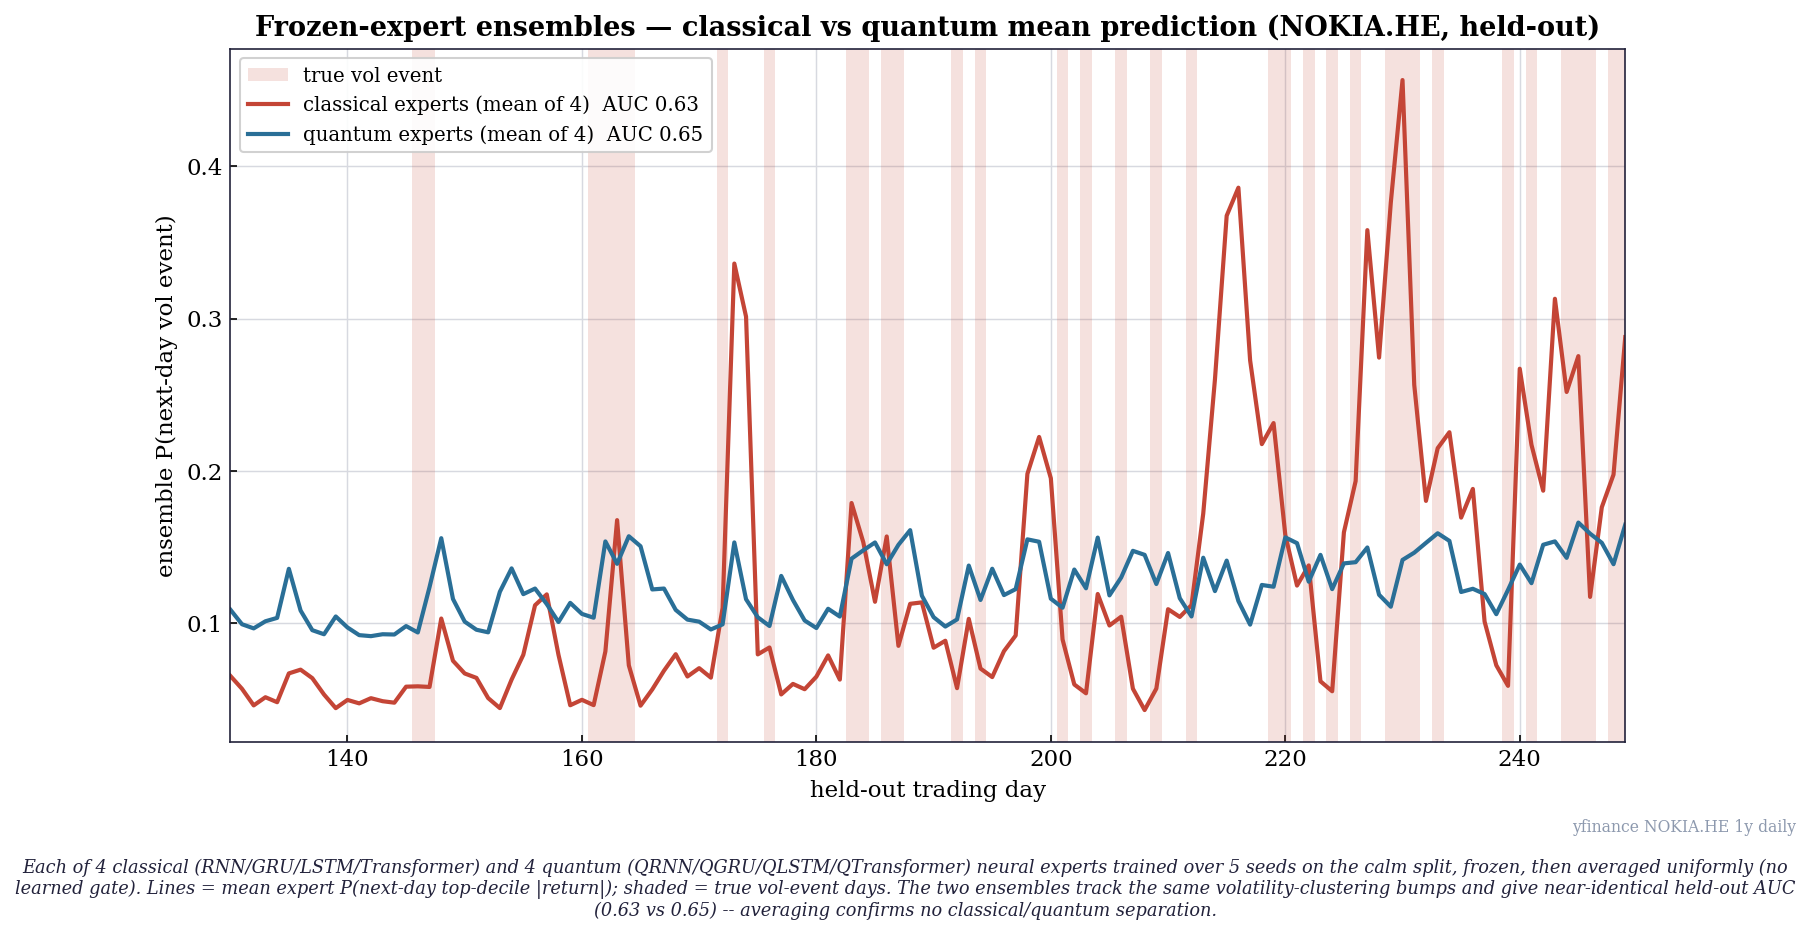
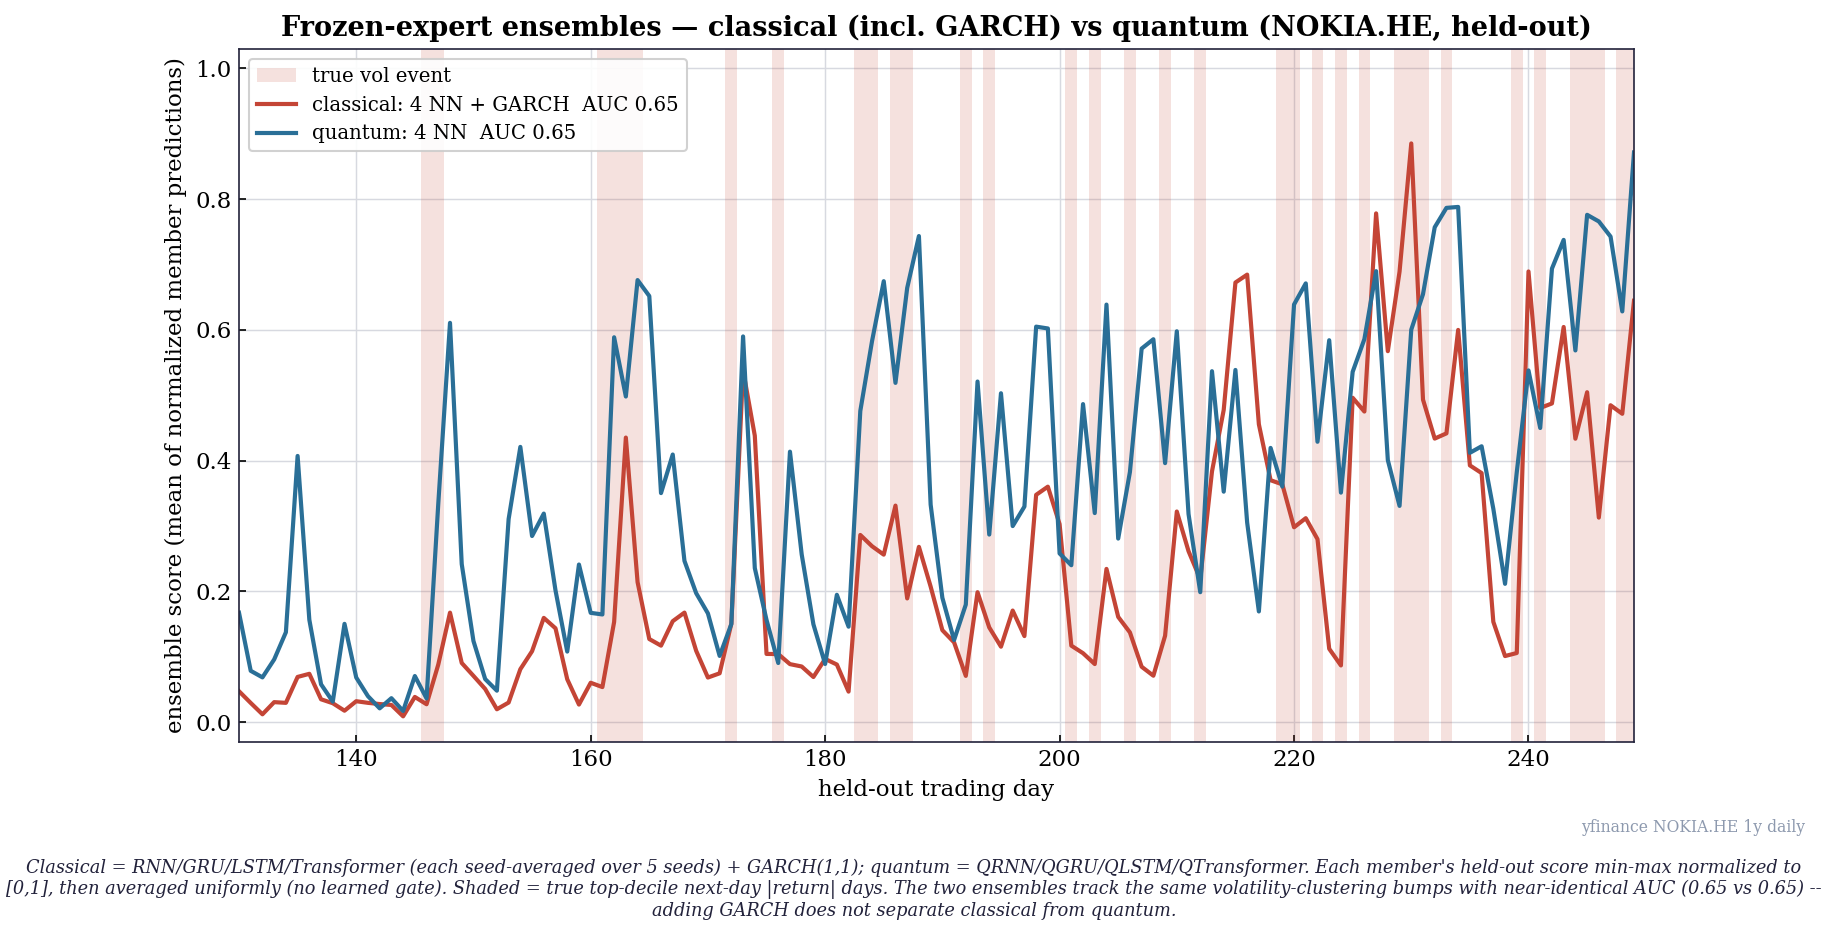
experiment(viz): fold GARCH(1,1) into the classical ensemble
Classical ensemble now = 4 NN (RNN/GRU/LSTM/Transformer, seed-averaged) + GARCH(1,1);
quantum = 4 NN. Each member min-max normalized before uniform averaging so the
GARCH variance forecast mixes fairly with the neural sigmoids.

Held-out AUC: classical 0.651 vs quantum 0.655 -- a dead heat. Adding GARCH (the
strongest single classical member, 0.639) lifts the classical ensemble from 0.63 to
match quantum, erasing the small prior gap. Still no classical/quantum separation.

Changed region(s): [[0.0928, 0.0, 0.8967, 0.8374], [0.0, 0.8684, 0.9895, 0.9925], [0.4329, 0.8064, 0.5875, 0.8684]]

diff --git a/experiments/quantum_rnn/ensemble_plot.py b/experiments/quantum_rnn/ensemble_plot.py
@@ -1,14 +1,15 @@
 """Frozen-expert ensembles: classical vs quantum, two averaged prediction lines.
 
-Mixture-of-experts / frozen-model style: each neural model is trained
+Mixture-of-experts / frozen-model style: each member is trained (or fit)
 independently then frozen; the ensemble prediction is the uniform mean of its
-experts' per-day probabilities (no learned gate). We average the four CLASSICAL
-neural experts (RNN, GRU, LSTM, Transformer) into one line and the four QUANTUM
-neural experts (QRNN, QGRU, QLSTM, QTransformer) into another, and overlay both
-against the true next-day vol-event days on the held-out split.
+members' per-day scores (no learned gate). To mix members with different output
+scales (neural sigmoids in [0,1] and GARCH's variance forecast), every member's
+held-out score is min-max normalized to [0,1] before averaging.
 
-(Statistical baselines -- GARCH/AR/persistence/logistic -- are intentionally
-excluded: they are not neural "experts". Swap them in if you want them counted.)
+  CLASSICAL line = RNN, GRU, LSTM, Transformer  +  GARCH(1,1)
+  QUANTUM line   = QRNN, QGRU, QLSTM, QTransformer
+
+Both overlaid against the true next-day vol-event days on the held-out split.
 
 Run:  ./quantum_pricer/.venv/bin/python experiments/quantum_rnn/ensemble_plot.py
 Saves ensemble_predictions.png next to this script.
@@ -28,6 +29,7 @@ sys.path.insert(0, HERE)
 sys.path.insert(0, os.path.abspath(os.path.join(HERE, "..", "..")))
 import seqdata as sd
 import classical_rnn as cr
+import ar_baseline as ar
 from quantum_rnn import QRNN
 from quantum_gru import QGRU
 from quantum_lstm import QLSTM
@@ -43,7 +45,7 @@ L = 10
 EPOCHS = 150
 LR = 0.05
 WD = 1e-2
-SEEDS = range(5)          # each expert seed-averaged (deep ensemble) for honest, stable lines
+SEEDS = range(5)          # each neural expert seed-averaged (deep ensemble) for stable lines
 OUT = os.path.join(HERE, "ensemble_predictions.png")
 
 CLASSICAL = [("RNN", cr.RNNClassifier), ("GRU", cr.GRUClassifier),
@@ -52,21 +54,31 @@ QUANTUM = [("QRNN", QRNN), ("QGRU", QGRU), ("QLSTM", QLSTM),
            ("QTransformer", QuantumTransformer)]
 
 
-def _expert_probs(models, X, y, tr, te):
-    """Each expert = its held-out prob averaged over SEEDS (a deep ensemble, robust to
-    init). Returns (mean held-out prob over the experts, per-expert seed-averaged AUCs)."""
-    probs, aucs = [], {}
+def nrm(x):
+    x = np.asarray(x, float)
+    lo, hi = np.nanmin(x), np.nanmax(x)
+    return (x - lo) / (hi - lo) if hi > lo else np.zeros_like(x)
+
+
+def _neural_arrays(models, X, y, tr, te):
+    """Return {name: seed-averaged held-out score} and {name: AUC} for each expert."""
+    arrs, aucs = {}, {}
     for name, Cls in models:
-        seed_probs = []
+        seed_scores = []
         for s in SEEDS:
             m = Cls(seed=s)
             cr.train(m, X[tr], y[tr], epochs=EPOCHS, lr=LR, seed=s, weight_decay=WD)
-            seed_probs.append(cr.scores(m, X)[te])
-        ep = np.mean(np.vstack(seed_probs), axis=0)     # expert's seed-averaged prediction
-        probs.append(ep)
-        aucs[name] = sd.roc_auc(ep, y[te])
+            seed_scores.append(cr.scores(m, X)[te])
+        arrs[name] = np.mean(np.vstack(seed_scores), axis=0)
+        aucs[name] = sd.roc_auc(arrs[name], y[te])
         print(f"  {name:12s} AUC={aucs[name]:.3f}")
-    return np.mean(np.vstack(probs), axis=0), aucs
+    return arrs, aucs
+
+
+def _ensemble(arrs, y_te):
+    """Uniform mean of each member's min-max-normalized held-out score."""
+    ens = np.mean(np.vstack([nrm(v) for v in arrs.values()]), axis=0)
+    return ens, sd.roc_auc(ens, y_te)
 
 
 def main():
@@ -82,16 +94,23 @@ def main():
     y_te = y[te]
 
     print("classical experts:")
-    c_ens, c_aucs = _expert_probs(CLASSICAL, X, y, tr, te)
+    c_arrs, c_aucs = _neural_arrays(CLASSICAL, X, y, tr, te)
+    # fold GARCH(1,1) into the classical average (deterministic; not seed-dependent)
+    garch = ar.garch_forecast(R, fit_end=L + n_train)[L:L + n][te]
+    c_arrs["GARCH(1,1)"] = garch
+    c_aucs["GARCH(1,1)"] = sd.roc_auc(garch, y_te)
+    print(f"  {'GARCH(1,1)':12s} AUC={c_aucs['GARCH(1,1)']:.3f}")
     print("quantum experts:")
-    q_ens, q_aucs = _expert_probs(QUANTUM, X, y, tr, te)
+    q_arrs, q_aucs = _neural_arrays(QUANTUM, X, y, tr, te)
 
-    c_auc = sd.roc_auc(c_ens, y_te)
-    q_auc = sd.roc_auc(q_ens, y_te)
+    c_ens, c_auc = _ensemble(c_arrs, y_te)
+    q_ens, q_auc = _ensemble(q_arrs, y_te)
     print(f"\nprovenance        : {provenance}")
     print(f"held-out vol events: {int(y_te.sum())}/{len(y_te)}")
-    print(f"CLASSICAL ensemble AUC = {c_auc:.3f}  (experts mean {np.mean(list(c_aucs.values())):.3f})")
-    print(f"QUANTUM   ensemble AUC = {q_auc:.3f}  (experts mean {np.mean(list(q_aucs.values())):.3f})")
+    print(f"CLASSICAL ensemble (4 NN + GARCH) AUC = {c_auc:.3f}  "
+          f"(members mean {np.mean(list(c_aucs.values())):.3f})")
+    print(f"QUANTUM   ensemble (4 NN)          AUC = {q_auc:.3f}  "
+          f"(members mean {np.mean(list(q_aucs.values())):.3f})")
 
     _plot(day, y_te, c_ens, q_ens, c_auc, q_auc, provenance)
     print(f"saved {OUT}")
@@ -107,21 +126,22 @@ def _plot(days, y_true, c_ens, q_ens, c_auc, q_auc, provenance):
                        label="true vol event" if first else None)
             first = False
     ax.plot(days, c_ens, color=c_col, lw=2.0,
-            label=f"classical experts (mean of 4)  AUC {c_auc:.2f}")
+            label=f"classical: 4 NN + GARCH  AUC {c_auc:.2f}")
     ax.plot(days, q_ens, color=q_col, lw=2.0,
-            label=f"quantum experts (mean of 4)  AUC {q_auc:.2f}")
+            label=f"quantum: 4 NN  AUC {q_auc:.2f}")
     ax.set_xlim(days[0], days[-1])
+    ax.set_ylim(-0.03, 1.03)
     ax.set_xlabel("held-out trading day")
-    ax.set_ylabel("ensemble P(next-day vol event)")
-    ax.set_title("Frozen-expert ensembles — classical vs quantum mean prediction "
+    ax.set_ylabel("ensemble score (mean of normalized member predictions)")
+    ax.set_title("Frozen-expert ensembles — classical (incl. GARCH) vs quantum "
                  "(NOKIA.HE, held-out)")
     ax.legend(loc="upper left", fontsize=9.5)
-    cap = ("Each of 4 classical (RNN/GRU/LSTM/Transformer) and 4 quantum "
-           "(QRNN/QGRU/QLSTM/QTransformer) neural experts trained over 5 seeds on the calm "
-           "split, frozen, then averaged uniformly (no learned gate). Lines = mean expert "
-           "P(next-day top-decile |return|); shaded = true vol-event days. The two ensembles "
-           "track the same volatility-clustering bumps and give near-identical held-out AUC "
-           f"({c_auc:.2f} vs {q_auc:.2f}) -- averaging confirms no classical/quantum separation.")
+    cap = ("Classical = RNN/GRU/LSTM/Transformer (each seed-averaged over 5 seeds) + "
+           "GARCH(1,1); quantum = QRNN/QGRU/QLSTM/QTransformer. Each member's held-out "
+           "score min-max normalized to [0,1], then averaged uniformly (no learned gate). "
+           "Shaded = true top-decile next-day |return| days. The two ensembles track the "
+           f"same volatility-clustering bumps with near-identical AUC ({c_auc:.2f} vs "
+           f"{q_auc:.2f}) -- adding GARCH does not separate classical from quantum.")
     if _HAVE_STYLE:
         style.caption(fig, cap)
         style.provenance(fig, provenance)

diff --git a/experiments/quantum_rnn/README.md b/experiments/quantum_rnn/README.md
@@ -76,10 +76,11 @@ before believing a surprising win) is part of the result.
 - `run_rnn_bench.py` — the benchmark → `rnn_benchmark.png`.
 - `predictions_plot.py` — every model's per-day held-out prediction overlaid vs the
   true vol-event days → `predictions_per_day.png` (v1 static; animation is future work).
-- `ensemble_plot.py` — frozen-expert ensembles: the 4 classical vs 4 quantum neural
-  experts (each seed-averaged) uniformly averaged into two prediction lines →
-  `ensemble_predictions.png`. Classical 0.63 vs quantum 0.65 held-out AUC — a near-tie
-  (single-threaded for reproducibility; the gap is within the documented noise band).
+- `ensemble_plot.py` — frozen-expert ensembles: classical (4 NN + GARCH(1,1)) vs
+  quantum (4 NN). Each member's held-out score is min-max normalized then uniformly
+  averaged (no learned gate) into two prediction lines → `ensemble_predictions.png`.
+  Classical 0.65 vs quantum 0.65 held-out AUC — a dead heat (single-threaded for
+  reproducibility; folding in GARCH lifts classical from 0.63 to match quantum).
 - `test_*.py` — 41 unit tests (harness, every recurrent + transformer cell, baselines).
 - `requirements.txt` — `torch`, `pennylane`, `arch`.
 